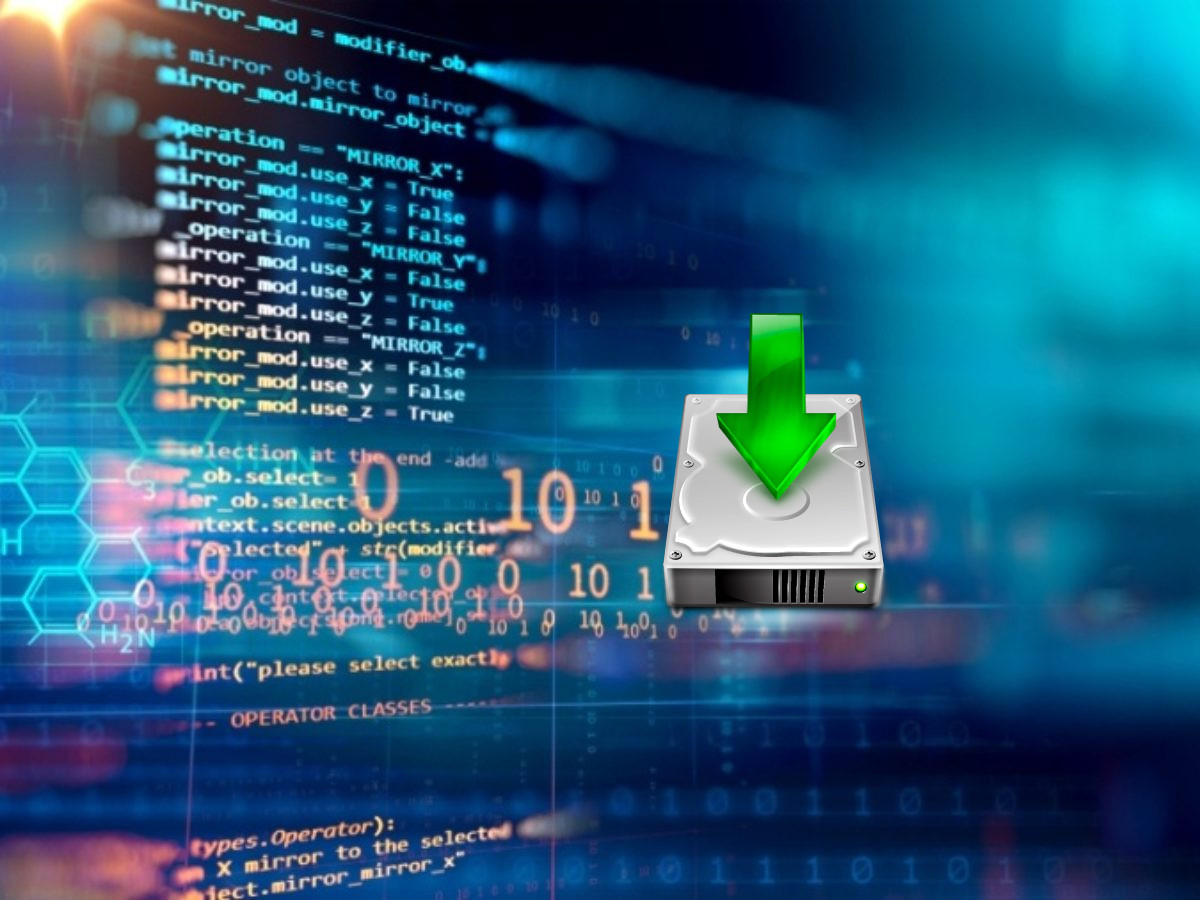
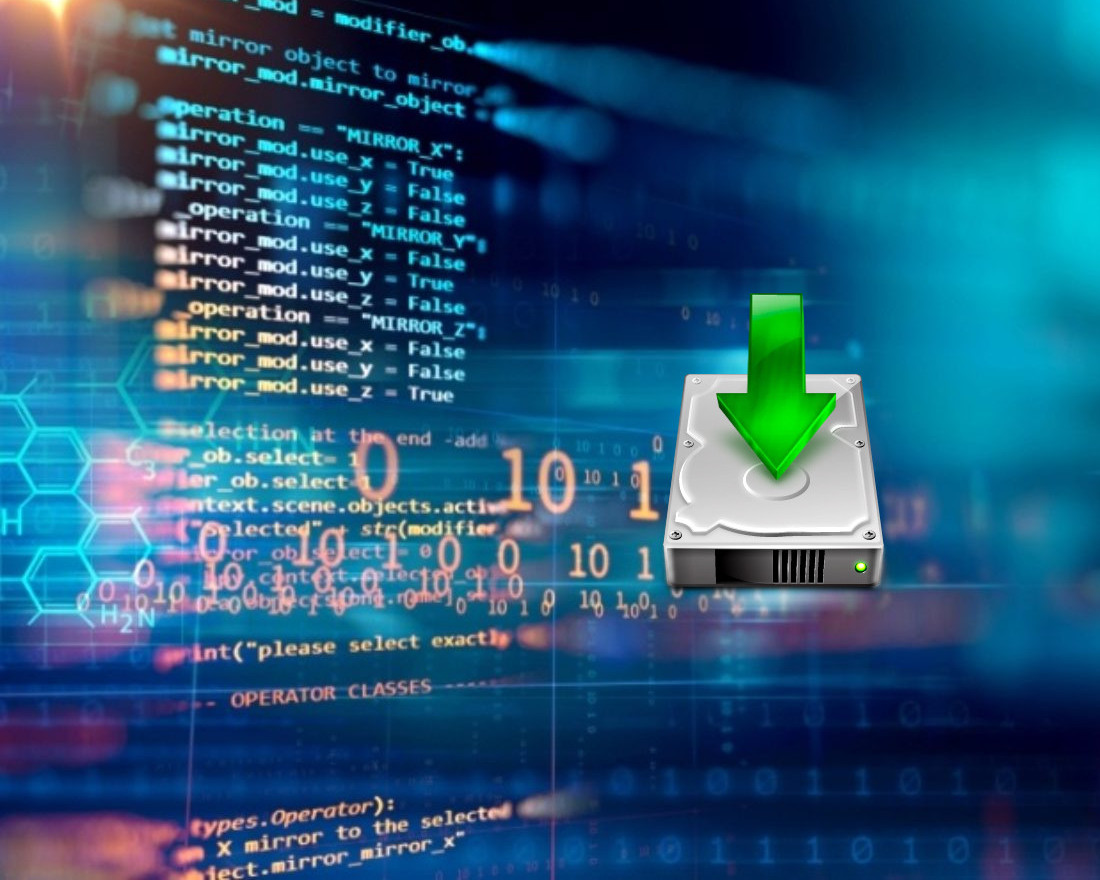
Change preview size

diff --git a/assets/css/extension.css b/assets/css/extension.css
@@ -228,7 +228,7 @@ footer {
     color: #63c0f5;
 }
 
-img#preview { margin: 2em 0 1em 0; width:100%; height: 300px; object-fit:cover; }
+img#preview { margin: 2em 0 1em 0; width:100%; height: 280px; object-fit:cover; }
 
 #social a {
     border-radius: 50%;
